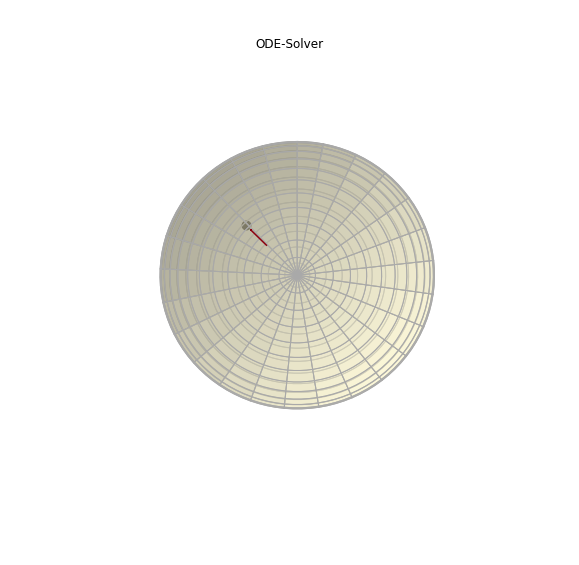
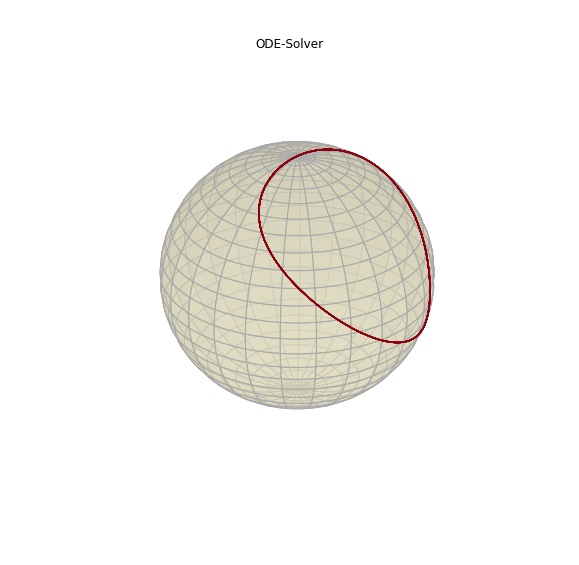
Plot of sphere

Changed region(s): [[0.2798, 0.2407, 0.7461, 0.7221]]

diff --git a/main.py b/main.py
@@ -123,8 +123,8 @@ general, but for little gain.
 
 L=(1,2,3)#Tensor values
 t0=0#Start-time
-tn=1#end-time
-h=1e-4
+tn=100#end-time
+h=1e-3
 m0=np.array([[1],
              [1],
              [1]])
